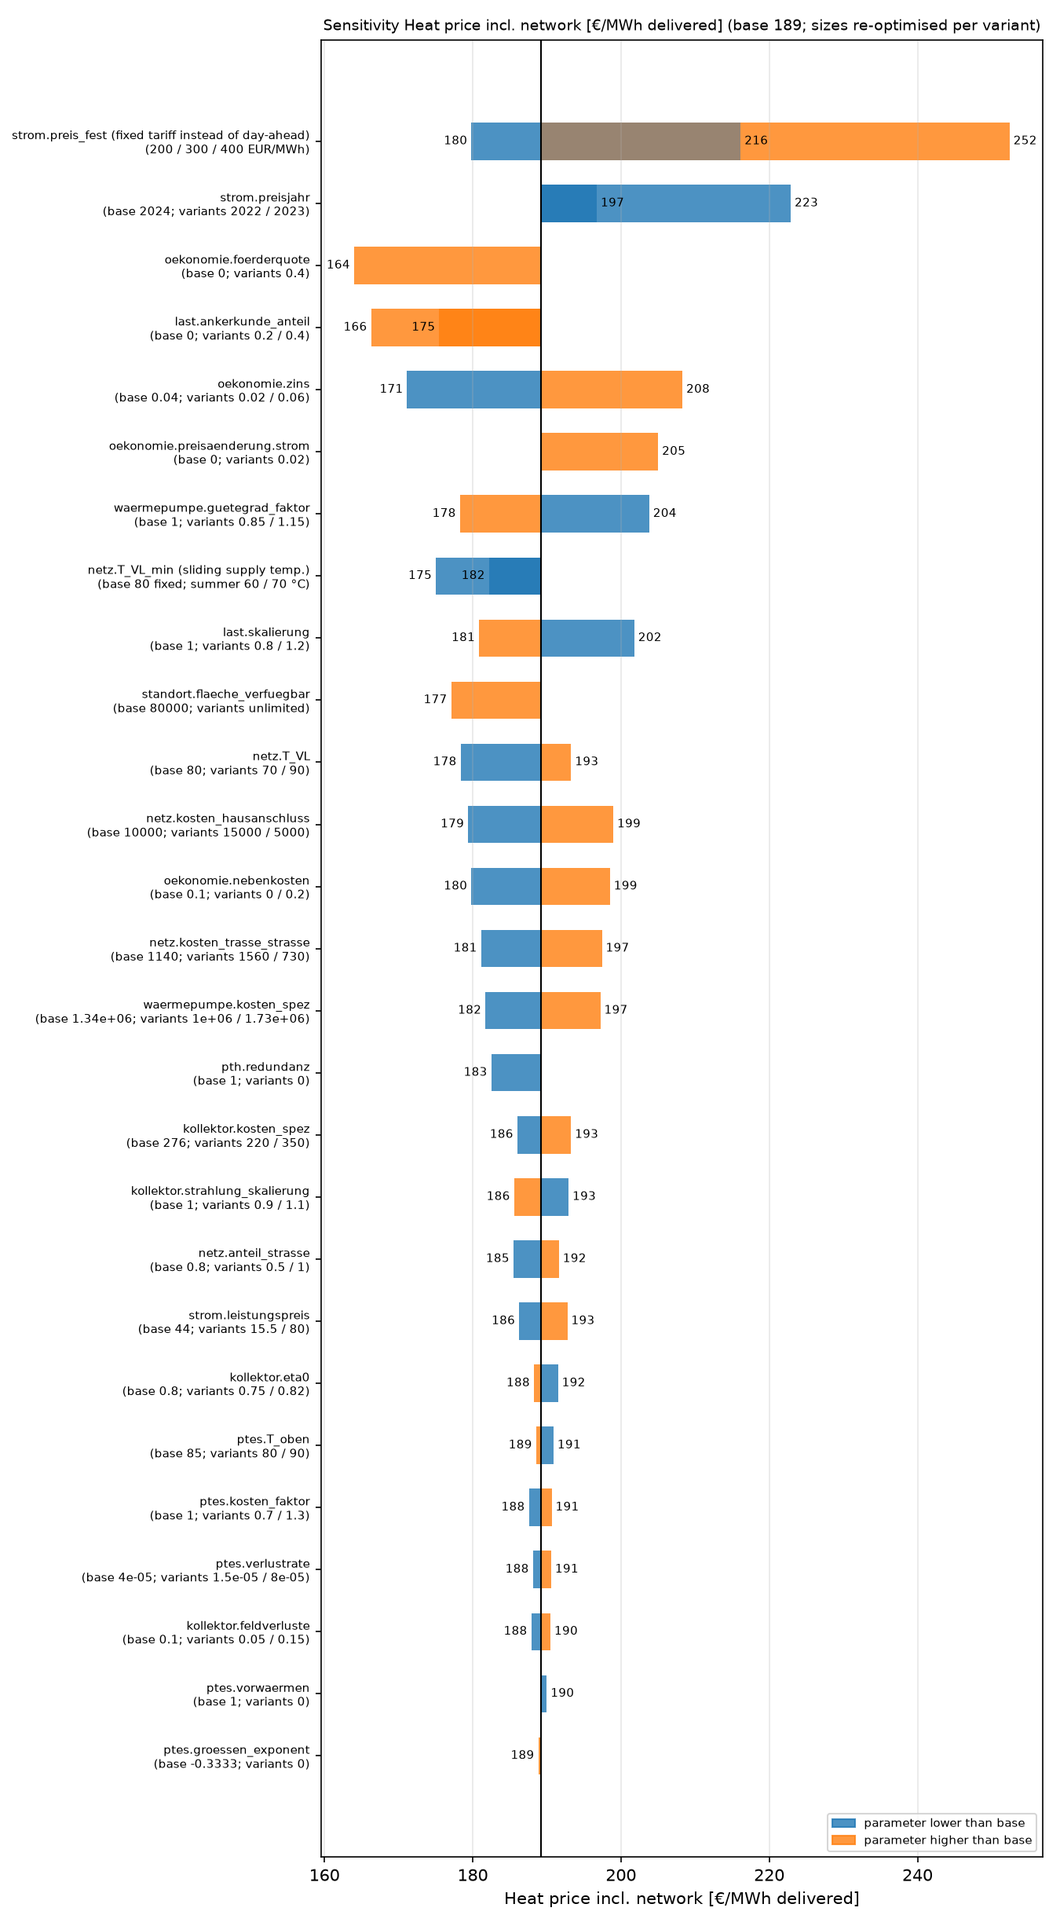
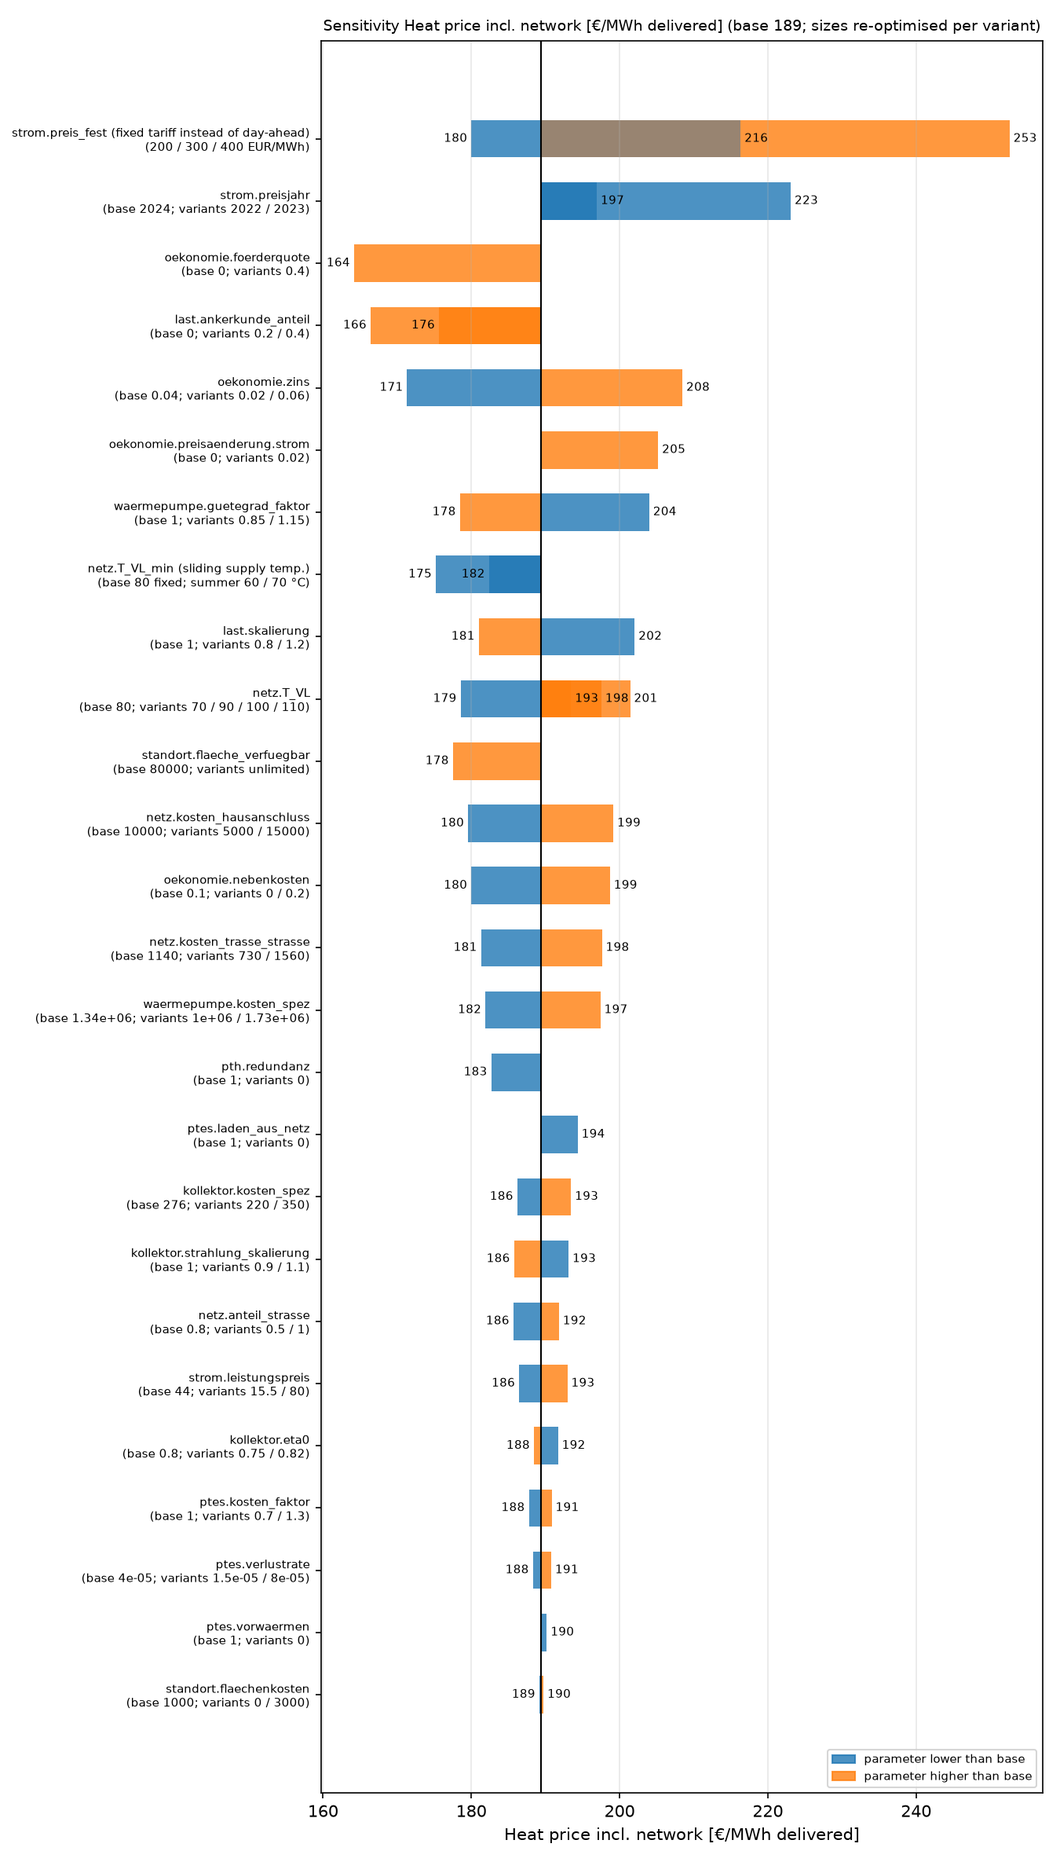
E47: Tornado mit Vorlauf 100/110 °C, voller Tornado neu; Prozesspools per spawn; Benchmarks nur lokal
- netz.T_VL sens 70/90/100/110 °C; Wirkung klein +7,8/+11,5, groß +8,2/+12,1 €/MWh
- Voller Tornado beider Netze mit Pacht neu gerechnet, README-Grafiken aktualisiert
- run.prozesspool: Worker per spawn, sonst hängen sie unter Linux (fork nach HiGHS)
- benchmarks/ aus Git entfernt und ignoriert

diff --git a/src/serts/run.py b/src/serts/run.py
@@ -4,6 +4,7 @@ from __future__ import annotations
 
 import datetime as dt
 import json
+import multiprocessing
 import os
 import platform
 import subprocess
@@ -137,6 +138,19 @@ def niedrige_prioritaet() -> None:
         pass
 
 
+def prozesspool(jobs: int) -> ProcessPoolExecutor:
+    """Prozesspool mit niedriger Priorität, Start immer per ``spawn`` (wie unter Windows).
+
+    Unter Linux wäre ``fork`` Standard: Hat der Elternprozess schon mit HiGHS gerechnet (Thread-Pool),
+    erben die Kinder gesperrte Locks und hängen bei 0 % CPU.
+    """
+    return ProcessPoolExecutor(
+        max_workers=jobs,
+        mp_context=multiprocessing.get_context("spawn"),
+        initializer=niedrige_prioritaet,
+    )
+
+
 def _segment(cfg: Config, ts: pd.DataFrame, A_m2, i: int, threads: int | None):
     """Ein Kostensegment lösen -> (i, n, k, r) oder (i, None, Text, None) wenn unzulässig."""
     seg = economics.ptes_segmente(cfg)[i]
@@ -185,9 +199,7 @@ def loese(
 
     def rechnen(idx):
         if jobs > 1 and len(idx) > 1:
-            with ProcessPoolExecutor(
-                max_workers=min(jobs, len(idx)), initializer=niedrige_prioritaet
-            ) as pool:
+            with prozesspool(min(jobs, len(idx))) as pool:
                 return list(
                     pool.map(_segment, *zip(*[(cfg, ts, A_m2, i, 1) for i in idx], strict=True))
                 )

diff --git a/src/serts/tornado.py b/src/serts/tornado.py
@@ -11,7 +11,7 @@ neuen Solverlauf auf dem Basis-Ergebnis nachgerechnet (``NUR_NACHRECHNUNG``).
 from __future__ import annotations
 
 import logging
-from concurrent.futures import ProcessPoolExecutor, as_completed
+from concurrent.futures import as_completed
 from pathlib import Path
 
 import pandas as pd
@@ -19,7 +19,7 @@ import pandas as pd
 from serts import kpi, plots
 from serts.config import Config
 from serts.prepare import build_zeitreihen
-from serts.run import loese, new_run_dir, niedrige_prioritaet
+from serts.run import loese, new_run_dir, prozesspool
 
 log = logging.getLogger(__name__)
 
@@ -108,7 +108,7 @@ def tornado(cfg: Config, jobs: int = 6, nur: list[str] | None = None) -> Path:
         zeilen.append(_zeile(cfg, p, w, k))
 
     threads = 1 if jobs > 1 else None
-    with ProcessPoolExecutor(max_workers=jobs, initializer=niedrige_prioritaet) as pool:
+    with prozesspool(jobs) as pool:
         futs = [pool.submit(_lauf, cfg, p, w, threads, start) for p, w in neu]
         for f in as_completed(futs):
             zeilen.append(f.result())

diff --git a/src/serts/varianten.py b/src/serts/varianten.py
@@ -14,7 +14,6 @@ Ausgabe: results/<netz>/<zeit>_<szenario>_varianten/ mit varianten.csv, variante
 from __future__ import annotations
 
 import logging
-from concurrent.futures import ProcessPoolExecutor
 from pathlib import Path
 
 import matplotlib.pyplot as plt
@@ -22,7 +21,7 @@ import pandas as pd
 
 from serts.config import Config
 from serts.prepare import build_zeitreihen
-from serts.run import loese, new_run_dir, niedrige_prioritaet
+from serts.run import loese, new_run_dir, prozesspool
 
 log = logging.getLogger(__name__)
 
@@ -112,7 +111,7 @@ def varianten(cfg: Config, jobs: int = 2) -> Path:
     out = new_run_dir(cfg, "varianten")
     f = faelle(cfg)
     threads = 1 if jobs > 1 else None
-    with ProcessPoolExecutor(max_workers=jobs, initializer=niedrige_prioritaet) as pool:
+    with prozesspool(jobs) as pool:
         futs = [pool.submit(_lauf, name, c, A, V, threads) for name, (c, A, V) in f.items()]
         ergebnisse = dict(fu.result() for fu in futs)
     df = pd.DataFrame({name: ergebnisse[name] for name in f}).loc[

diff --git a/tests/test_modell.py b/tests/test_modell.py
@@ -201,6 +201,17 @@ def test_boosting_wenn_kern_kaelter_als_vorlauf(cfg, ts):
     assert (nachheizen >= alpha * p0["entladen_direkt"] - 1e-6).all()
 
 
+@pytest.mark.parametrize("t_vl, boost", [(100, 0.5), (110, 0.75)])
+def test_hoher_vorlauf_100_110(cfg, ts, t_vl, boost):
+    """Tornado-Varianten 100/110 °C: Boosting (T_VL + 5 - 85)/(85 - 45), COP sinken, Vorwärmen bleibt."""
+    c = cfg.variante("netz.T_VL", t_vl)
+    assert network.boost_verhaeltnis(c, ts["T_a"]).iloc[0] == pytest.approx(boost)
+    assert network.vorwaerm_verhaeltnis(c) == pytest.approx(15 / (t_vl - 60))
+    for f in (heatpump.cop_luft, heatpump.cop_speicher):
+        cop, cop_basis = f(c, ts["T_a"]), f(cfg, ts["T_a"])
+        assert np.isfinite(cop).all() and (cop > 1).all() and (cop < cop_basis).all()
+
+
 def test_durchfluss_begrenzt_laden_und_entladen(cfg, ts):
     """Volumenstrom je Richtung <= austauschrate x V (Dronninglund); .inf = keine Grenze (E41)."""
     c = cfg.variante("ptes.austauschrate", 0.002)

diff --git a/src/serts/heatmap.py b/src/serts/heatmap.py
@@ -9,7 +9,6 @@ Ausgabe: results/<netz>/<zeit>_<szenario>_heatmap/ mit heatmap.csv und heatmap.p
 from __future__ import annotations
 
 import logging
-from concurrent.futures import ProcessPoolExecutor
 from pathlib import Path
 
 import matplotlib.pyplot as plt
@@ -19,7 +18,7 @@ from matplotlib import patheffects
 
 from serts.config import Config
 from serts.prepare import build_zeitreihen
-from serts.run import loese, new_run_dir, niedrige_prioritaet
+from serts.run import loese, new_run_dir, prozesspool
 
 log = logging.getLogger(__name__)
 WERTE = [
@@ -142,7 +141,7 @@ def heatmap(cfg: Config, jobs: int = 3) -> Path:
         if passt(cfg, A, V)
     ]
     threads = 1 if jobs > 1 else None
-    with ProcessPoolExecutor(max_workers=jobs, initializer=niedrige_prioritaet) as pool:
+    with prozesspool(jobs) as pool:
         zeilen = list(
             pool.map(
                 _punkt, [cfg] * len(punkte), *zip(*punkte, strict=True), [threads] * len(punkte)

diff --git a/docs/ergebnisse.md b/docs/ergebnisse.md
@@ -9,6 +9,57 @@ vor dem 14.11.: Temperaturkennlinie E34/E36). Großes Netz:
 **`docs/ergebnisse_netz_gross.md`**. Prüfung gegen die Leitfrage: **`docs/kernfragen.md`**. Speichermodell
 erklärt: `docs/speichermodell.md`.
 
+## Tornado 24.11.2026 mit Pacht und Tornado-Satz E45/E47
+
+`uv run serts tornado` (`results/klein/20261124-161435_base_tornado`, ≈ 2 h unter WSL). Basis wie oben mit Pacht:
+4.635 m² / 6.199 m³, **Wärmepreis inkl. Netz 225,9 €/MWh (Gas 229,9)**, Solar 41 %. Δ zur Basis, Größen je
+Variante neu optimiert:
+
+| Parameter | niedrig | hoch |
+|---|---|---|
+| fester Tarif 20 / 30 / 40 ct statt Day-Ahead | −10,0 | +23,9 / +57,6 |
+| Förderquote 40 % | −32,7 | |
+| Ankerkunde 20 / 40 % | −19,2 / −32,1 | |
+| Preisjahr 2023 / 2022 | | +6,6 / +31,0 |
+| Zins 2 / 6 % | −24,8 | +26,4 |
+| Last ×0,8 / ×1,2 | +19,2 | −12,6 |
+| Hausanschluss 5.000 / 15.000 € | −16,8 | +16,8 |
+| Strompreis +2 %/a real | | +14,9 |
+| Fläche unbegrenzt (33.600 m³) | −13,8 | |
+| WP-Gütegrad ×0,85 / ×1,15 | +13,4 | −10,0 |
+| Nebenkosten 0 / 20 % | −13,1 | +13,1 |
+| Vorlauf gleitend 60 / 70 °C | −12,5 / −6,3 | |
+| PtH ohne Redundanz | −12,2 | |
+| **Vorlauf fest 70 / 90 / 100 / 110 °C** | −10,0 | +3,9 / +7,8 / +11,5 |
+| Trasse Straße 370 / 940 €/m | −8,8 | +9,2 |
+| Luft-WP 1.340 / 1.970 €/kW | −7,7 | +4,6 |
+| Kollektor 240 / 380 €/m² | −5,6 | +6,5 |
+| Strahlung ×0,9 / ×1,1 | +5,5 | −4,8 |
+
+Übrige (Straßenanteil, Speicherkosten, Speicherverluste, Laden aus dem Netz, Leistungspreis, eta0, Vorwärmen,
+Pacht 0 / 3.000 €/(ha·a)) ≤ ±4 €/MWh. Gas-Referenz 6 / 8 / 10 / 14 ct/kWh: Abstand zu Gas −66,8 / −43,5 / −20,1 /
++26,6 €/MWh. Gegenüber dem Tornado vom 23.11. (ohne Pacht) ändern sich die Werte um höchstens 0,6 €/MWh.
+
+## Vorlauf 100/110 °C (24.11.2026, mit Pacht, E47)
+
+`uv run serts tornado --parameter netz.T_VL` (`results/klein/20261124-144628_base_sensitivitaet`, Größen je Lauf
+neu optimiert, Tornado-Segmentsuche E42). Gas-Fernwärme 229,9 €/MWh.
+
+| Vorlauf | LCOH | inkl. Netz | Δ Basis | Kollektor [m²] | Speicher [m³] | JAZ Luft-WP | COP Speicher-WP | Strom [MWh] | Boosting [MWh] | PtH [MWh] |
+|---|---|---|---|---|---|---|---|---|---|---|
+| fest 70 °C | 132,0 | 216,0 | −9,9 | 4.600 | 6.400 | 2,59 | 4,33 | 1.360 | 0 | 11 |
+| **fest 80 °C (Basis)** | 140,3 | 225,9 | – | 4.640 | 6.200 | 2,26 | 3,91 | 1.550 | 0 | 19 |
+| fest 90 °C | 143,5 | 229,8 | +3,9 | 4.610 | 6.370 | 2,18 | 3,77 | 1.628 | 71 | 28 |
+| **fest 100 °C** | 146,7 | **233,7** | **+7,8** | 4.590 | 6.500 | 2,11 | 3,64 | 1.704 | 143 | 40 |
+| **fest 110 °C** | 149,8 | **237,4** | **+11,5** | 4.570 | 6.620 | 2,04 | 3,52 | 1.778 | 216 | 53 |
+
+Lesart: Über 80 °C steigt der Preis fast linear um ≈ 0,38 €/MWh je K. Ab ≈ 90 °C liegt das kleine Netz über der
+Gas-Fernwärme (100 °C: +3,8, 110 °C: +7,5 €/MWh). Größen bleiben fast gleich (Fläche bindet); der Speicher wird
+etwas größer, weil die Direktentladung (T_oben 85 °C) jetzt 0,5 bzw. 0,75 MWh Nachheizen je MWh braucht.
+**Eher optimistisch für 100/110 °C:** Netzverluste bleiben die der Netzberechnung (80/50 °C; bei 110/45 °C grob
++20–25 % Verlust), der KWW-Gütegrad der Luft-WP ist nur bis 95 °C belegt (darüber 44 % gehalten), WP-Investkosten
+hängen nicht vom Vorlauf ab (Speicher-WP: Hub 94 K bei 110 °C, KWW-Stützwert zweistufig nur bis 85 K).
+
 ## Stand 24.11.2026 nach E43/E44 (Day-Ahead-Basis, Gas 12 ct, Zins 4 %, Kosten je Netz)
 
 Geändert gegenüber 21.11.: Strom Day-Ahead 2024 + Marge 2,5 + Netzentgelt 7,99 + Abgaben 4,8 ct/kWh (Mittel

diff --git a/docs/ergebnisse_netz_gross.md b/docs/ergebnisse_netz_gross.md
@@ -6,6 +6,54 @@ Spitze 15,5 MW (Stundensumme), Trasse 14.291 m, Freifläche 80.000 m². Alle and
 (`docs/eingangsparameter.md` zeigt beide nebeneinander). Kollektor 276 €/m² Brutto (KWW, Klasse ≥ 15.000 m²
 Apertur), Trasse 1.140/640 €/m (KWW, größere Rohre), Luft-WP nach KWW-Gütegrad, Speicher mit Kennlinie (E34–E36).
 
+## Tornado 24.11.2026 mit Pacht und Tornado-Satz E45/E47
+
+`uv run serts tornado --netz gross` (`results/gross/20261124-185038_base_tornado`, ≈ 2 h unter WSL). Basis mit
+Pacht: 28.350 m² / 39.200 m³, **Wärmepreis inkl. Netz 189,4 €/MWh (Gas 207,3)**, Solar 29 %. Δ zur Basis:
+
+| Parameter | niedrig | hoch |
+|---|---|---|
+| fester Tarif 20 / 30 / 40 ct statt Day-Ahead | −9,4 | +27,0 / +63,2 |
+| Preisjahr 2023 / 2022 | | +7,6 / +33,7 |
+| Förderquote 40 % | −25,2 | |
+| Ankerkunde 20 / 40 % | −13,7 / −22,9 | |
+| Zins 2 / 6 % | −18,0 | +19,1 |
+| Strompreis +2 %/a real | | +15,8 |
+| WP-Gütegrad ×0,85 / ×1,15 | +14,6 | −10,9 |
+| Vorlauf gleitend 60 / 70 °C | −14,1 / −7,0 | |
+| Last ×0,8 / ×1,2 | +12,7 | −8,3 |
+| **Vorlauf fest 70 / 90 / 100 / 110 °C** | −10,8 | +4,1 / +8,2 / +12,1 |
+| Fläche unbegrenzt (130.000 m³ = Rasterende) | −11,8 | |
+| Hausanschluss 5.000 / 15.000 € | −9,8 | +9,8 |
+| Nebenkosten 0 / 20 % | −9,4 | +9,3 |
+| Trasse Straße 730 / 1.560 €/m | −8,0 | +8,2 |
+| Luft-WP 1.000 / 1.730 €/kW | −7,5 | +8,0 |
+| PtH ohne Redundanz | −6,7 | |
+| Laden aus dem Netz aus | | +5,0 |
+
+Übrige (Kollektorkosten, Strahlung, Straßenanteil, Leistungspreis, eta0, Speicherkosten/-verluste, Vorwärmen, Pacht
+0 / 3.000 €/(ha·a)) ≤ ±4,1 €/MWh. Gas-Referenz 6 / 8 / 10 / 14 ct/kWh: Abstand −54,2 / −30,9 / −7,5 / +39,2 €/MWh.
+Gegenüber dem Tornado vom 23.11. (ohne Pacht) ändern sich die Werte um höchstens 0,3 €/MWh. Auch bei 110 °C
+Vorlauf bleibt das große Netz unter Gas (201,4 statt 207,3 €/MWh).
+
+## Vorlauf 100/110 °C (24.11.2026, mit Pacht, E47)
+
+`uv run serts tornado --netz gross --parameter netz.T_VL` (`results/gross/20261124-150915_base_sensitivitaet`).
+Gas-Fernwärme 207,3 €/MWh.
+
+| Vorlauf | LCOH | inkl. Netz | Δ Basis | Kollektor [m²] | Speicher [m³] | JAZ Luft-WP | COP Speicher-WP | Strom [MWh] | Boosting [MWh] | PtH [MWh] |
+|---|---|---|---|---|---|---|---|---|---|---|
+| fest 70 °C | 118,4 | 178,6 | −10,8 | 27.760 | 42.810 | 2,60 | 4,33 | 13.970 | 0 | 62 |
+| **fest 80 °C (Basis)** | 128,0 | 189,4 | – | 28.350 | 39.200 | 2,25 | 3,91 | 15.880 | 0 | 95 |
+| fest 90 °C | 131,6 | 193,5 | +4,1 | 27.940 | 41.720 | 2,18 | 3,76 | 16.670 | 686 | 169 |
+| **fest 100 °C** | 135,2 | **197,5** | **+8,2** | 27.610 | 43.740 | 2,11 | 3,64 | 17.440 | 1.347 | 265 |
+| **fest 110 °C** | 138,7 | **201,4** | **+12,1** | 27.170 | 46.430 | 2,05 | 3,52 | 18.210 | 1.990 | 350 |
+
+Lesart: ≈ 0,4 €/MWh je K über 80 °C; das große Netz bleibt auch bei 110 °C unter der Gas-Fernwärme (−5,8 €/MWh).
+Der Speicher wächst auf 46.400 m³, das Kollektorfeld schrumpft leicht (Boosting macht Direktentladung teurer, mehr
+Wärme läuft über die Speicher-WP). Gleiche Vorbehalte wie Netz klein (Netzverluste 80/50 °C, KWW-Gütegrad über 95 °C
+gehalten, WP-Kosten unabhängig vom Vorlauf) -> eher optimistisch.
+
 ## Stand 24.11.2026 nach E43/E44 (Day-Ahead-Basis, Gas 12 ct, Zins 4 %, Kosten je Netz)
 
 Annahmen wie Netz klein (`docs/ergebnisse.md`, Abschnitt 24.11.), aber Luft-WP 1.340 €/kW und PtH 180 €/kW (KWW,

diff --git a/README.md b/README.md
@@ -80,9 +80,10 @@ source: [docs/eingangsparameter.md](docs/eingangsparameter.md) (overview small/l
 
 As of 24.11.2026 (decisions E43/E44), preliminary.
 
-> **Note:** the land lease (1,000 €/(ha·a), decision E45) and the updated tornado parameters are already in the model
-> but not yet in the results and figures below. A base run with the lease gives the same sizes and +0.2 €/MWh in both
-> networks (small 225.9, large 189.4 €/MWh); a full update follows soon.
+> **Note:** the tornado figures below are recomputed with the land lease (1,000 €/(ha·a), decision E45) and the
+> current tornado parameters, including supply temperatures of 100/110 °C (E47). The table and the other figures
+> are still without the lease; a base run with the lease gives the same sizes and +0.2 €/MWh in both networks
+> (small 225.9, large 189.4 €/MWh).
 
 | | Small network | Large network |
 |---|---|---|
@@ -105,7 +106,9 @@ As of 24.11.2026 (decisions E43/E44), preliminary.
 - **Day-ahead price is used actively:** heat pump and PtH charge the storage in cheap hours (mainly in autumn);
   the electricity they buy costs 225 instead of 231 €/MWh on average (large network: 221).
 - **Lower supply temperature helps:** sliding to 60 °C in summer −12 to −14 €/MWh, fixed 70 °C −10 to −11;
-  90 °C costs +4 €/MWh.
+  90 / 100 / 110 °C cost +4 / +8 / +12 €/MWh (≈ 0.4 €/MWh per K). With 100 °C or more the small network is above gas
+  district heating; the large one stays below even at 110 °C (201 vs. 207 €/MWh). Optimistic for 100/110 °C:
+  network losses stay those of 80/50 °C and heat pump costs do not depend on the supply temperature.
 - **Area is the bottleneck:** without an area limit a **seasonal storage** is cheapest (small network: 33,600 m³,
   93 % solar, −14 €/MWh; large network: −12 €/MWh). Upper bound: only the land lease is charged, no purchase or permitting.
 - **PtH as full back-up costs** about 12 €/MWh (small) and 7 €/MWh (large) compared with PtH sized only as needed.
@@ -180,8 +183,8 @@ uv run serts run --V 0         # variant without storage (more options: --A, --s
 uv run serts run --szenario strom_fest  # fixed electricity price 30 ct/kWh instead of day-ahead
 uv run serts varianten         # base / no storage / heat pump + PtH only / with BEW subsidy (+ gas), ≈ 10 min
 uv run serts heatmap           # grid of collector area x storage volume
-uv run serts tornado           # sensitivities (≈ 1.5 h per network)
-uv run serts bench             # run-time benchmark of the base case -> benchmarks/bench.csv
+uv run serts tornado           # sensitivities (≈ 2 h per network)
+uv run serts bench             # run-time benchmark of the base case -> benchmarks/bench.csv (local, not in git)
 uv run serts annahmen          # generate docs/annahmen.md from config/base.yaml
 uv run serts uebersicht        # generate docs/eingangsparameter.md
 uv run serts offen             # list of open parameters

diff --git a/docs/annahmen.md b/docs/annahmen.md
@@ -43,7 +43,7 @@ Status: belegt 47, vorgabe 23, annahme 73, offen 0
 
 | Parameter | Wert | Einheit | Status | Quelle / Begründung | Sensitivität | Hinweis |
 |---|---|---|---|---|---|---|
-| `netz.T_VL` | 80 | degC | annahme | TEAM: Netz bleibt bei 80 degC Vorlauf wie in der NB (ersetzt BRF-Wert 75 degC) | 70, 90 | Wirkt auf COP Luft- und Speicher-WP, Direktentladung (über 80 °C Boosting, da T_oben 85), Übergangszone und Vorwärmen. Netzverluste bleiben die der Netzberechnung (80/50 °C) -> Vorteil niedriger Vorläufe eher unterschätzt. Im Tornado 70/90 °C fest; 75/85 °C einzeln (Stand 21.11. in docs/ergebnisse*.md). |
+| `netz.T_VL` | 80 | degC | annahme | TEAM: Netz bleibt bei 80 degC Vorlauf wie in der NB (ersetzt BRF-Wert 75 degC) | 70, 90, 100, 110 | Wirkt auf COP Luft- und Speicher-WP, Direktentladung (über 80 °C Boosting, da T_oben 85: 100/110 °C -> 0,5/0,75 MWh je MWh Entladung), Übergangszone und Vorwärmen. Netzverluste bleiben die der Netzberechnung (80/50 °C) -> Vorteil niedriger Vorläufe eher unterschätzt, Kosten hoher Vorläufe auch. 100/110 °C außerhalb der KWW-Stützwerte (Gütegrad Luft-WP bleibt 44 % wie bei 95 °C, WP-Investkosten unverändert) -> eher optimistisch. Im Tornado 70/90/100/110 °C fest; 75/85 °C einzeln (Stand 21.11. in docs/ergebnisse*.md). |
 | `netz.T_VL_min` | 80 | degC | annahme | Basis = konstanter Vorlauf (TEAM). Kleiner als T_VL -> gleitender Vorlauf: T_VL bei Tagesmittel <= gleit_T_kalt, linear fallend auf T_VL_min bei >= gleit_T_warm (Szenario vl_gleitend) | 60, 70 | Wirkt stündlich auf den COP von Luft- und Speicher-WP und das Boosting (heatpump.vorlauf). Übergangszone, Vorwärmen und Netzverluste rechnen weiter mit T_VL -> eher vorsichtig. Im Tornado: gleitend 80 -> 60 / 80 -> 70 °C. |
 | `netz.gleit_T_kalt` | -10 | degC | annahme | übliche Heizkurve Fernwärme: volle Vorlauftemperatur bei Auslegungs-Außentemperatur (Größenordnung -10 bis -12 °C) |  |  |
 | `netz.gleit_T_warm` | 15 | degC | annahme | übliche Heizkurve: Mindest-Vorlauf ab Heizgrenze ≈ 15 °C (Sommer: Trinkwarmwasser) |  |  |

diff --git a/docs/entscheidungen.md b/docs/entscheidungen.md
@@ -534,3 +534,19 @@ Vorlauf jetzt fester Teil des Tornados: `netz.T_VL` 70/90 °C fest, `netz.T_VL_m
 - Jeder Lauf schreibt die Laufzeit je Schritt und die Plattform in `meta.json`; `serts bench` misst den Basisfall
   wiederholt (`benchmarks/bench.csv`). Windows gegen Ubuntu (WSL2) auf demselben Laptop: −15 % (eine Optimierung)
   bis −27 % (Segmente parallel) unter Linux, gleiche Ergebnisse (`docs/laufzeit.md`).
+
+## E47 Vorlauf 100/110 °C im Tornado; Prozesspools per spawn (24.11.2026)
+
+- *Tornado:* `netz.T_VL` jetzt 70 / 90 / 100 / 110 °C (vorher 70 / 90). Modell unverändert: über 85 °C braucht jede
+  MWh Direktentladung Nachheizen (100 °C: 0,5, 110 °C: 0,75 MWh), COP Luft-WP nach KWW mit Gütegrad 44 % über 95 °C
+  gehalten, Speicher-WP nach Jensen. **Wirkung** (mit Pacht): Netz klein 233,7 / 237,4 €/MWh (+7,8 / +11,5, ab
+  ≈ 90 °C über Gas 229,9), Netz groß 197,5 / 201,4 €/MWh (+8,2 / +12,1, weiter unter Gas 207,3). Tabellen in
+  `docs/ergebnisse.md`, `docs/ergebnisse_netz_gross.md`. Eher optimistisch: Netzverluste bleiben 80/50 °C,
+  WP-Investkosten hängen nicht vom Vorlauf ab.
+- *Prozesspools:* `run.prozesspool` startet die Worker immer per `spawn` (Windows-Standard). Unter Linux war `fork`
+  Standard; hatte der Elternprozess schon mit HiGHS gerechnet, hingen die Kinder bei 0 % CPU (Testsuite und
+  `serts tornado` unter WSL). Gilt für `run`, `tornado`, `varianten`, `heatmap`.
+- *Voller Tornado 24.11.* mit Pacht und neuem Satz (`results/klein/20261124-161435_base_tornado`,
+  `results/gross/20261124-185038_base_tornado`, je ≈ 2 h unter WSL), README-Grafiken neu. Tabellen in
+  `docs/ergebnisse*.md`.
+- *Benchmarks nur lokal:* `benchmarks/` ist nicht mehr in Git (`.gitignore`); `serts bench` schreibt weiter dorthin.

diff --git a/docs/laufzeit.md b/docs/laufzeit.md
@@ -3,7 +3,7 @@
 Measured on 24.11.2026 with `uv run serts bench` on the same laptop (Intel Core i7-1185G7, 4 cores / 8 threads,
 32 GB RAM), first on Windows 11, then on Ubuntu 26.04 under WSL2 (8 threads, 15 GB). Same code (git `7053b0c`),
 same package versions from `uv.lock` (Python 3.12, PyPSA 1.4, linopy 0.10, HiGHS 1.15). On Linux the repo was
-cloned into the Linux file system (`~/serts`), not run from `/mnt/c`. Raw data: `benchmarks/bench.csv`.
+cloned into the Linux file system (`~/serts`), not run from `/mnt/c`. Raw data: `benchmarks/bench.csv` (local only, not in git).
 
 Median per step, small network, full year (8760 h):
 
@@ -34,5 +34,5 @@ mode the step times are summed over the five parallel segments and are therefore
 comparison with the sequential run gave identical key figures, time series and network file.
 
 To repeat the comparison: `uv run serts bench --modus fest` (≈ 5 min) or `--modus voll --jobs 5` (≈ 15 min) on each
-system; every run appends to `benchmarks/bench.csv`. Every `serts run` also records its step times and the platform in
+system; every run appends to `benchmarks/bench.csv` (local only, ignored by git). Every `serts run` also records its step times and the platform in
 `meta.json`.
